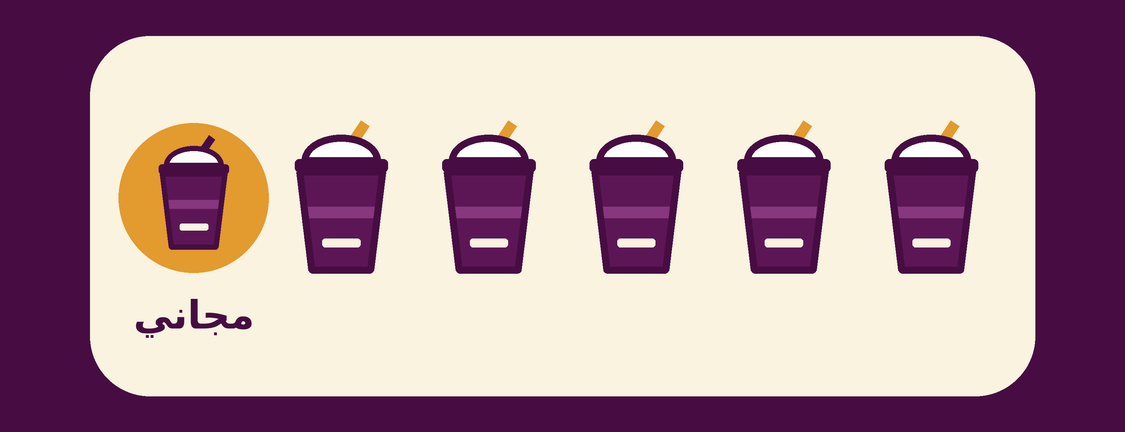
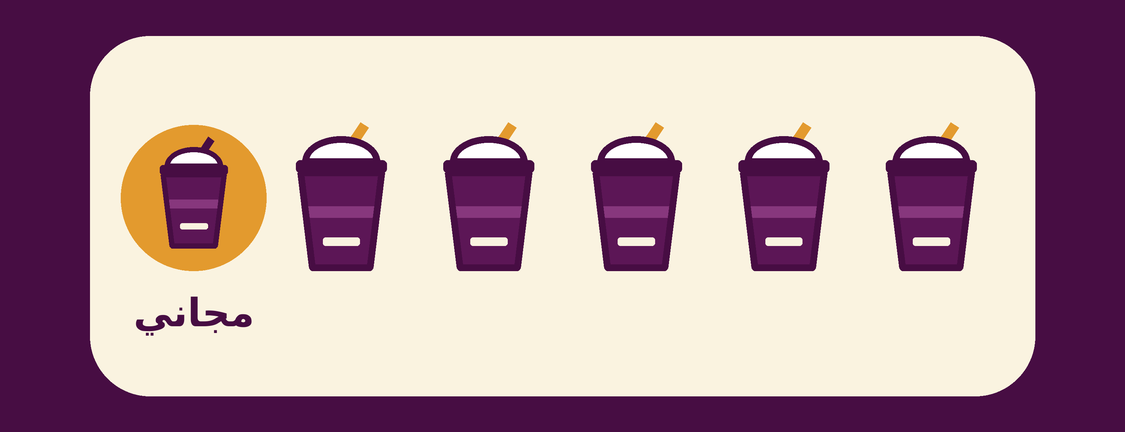
Wallet cards: stamp artwork for every rule from 3 to 10 stamps
Changing the rule (e.g. 6 stamps, 7th free) showed every cup as stamped
because only the 5-stamp artwork existed. Saved cards now refresh when
the rule or the shop location changes.

Claude-Session: https://claude.ai/code/session_01Srws4wZzpzmeXmJyobkACx

diff --git a/tools/wallet_images.py b/tools/wallet_images.py
@@ -23,30 +23,38 @@ def cup(d, cx, base, h, state):
     d.line(body + [body[0]], fill=line, width=lw, joint='curve')
 
 def panel(Wpt, Hpt, stamps, free, need=5, plain=False, pad=(30, 12)):
-    """Cream panel with need cups + one free slot. Sizes in points, drawn 8x then scaled."""
+    """Cream panel with `need` cups + one free slot (two rows when there are many). Points, drawn 8x."""
     S = 8; W, H = Wpt * S, Hpt * S
     im = Image.new('RGB', (W, H), P); d = ImageDraw.Draw(im)
     px, py = pad[0] * S, pad[1] * S
     d.rounded_rectangle((px, py, W - px, H - py), radius=20 * S, fill=C)
-    n = need + 1; inner = W - 2 * px - 20 * S; step = inner / n
-    ch = min(48, (Hpt - 2 * pad[1]) * 0.42) * S          # cup height
-    cy = H / 2 - 6 * S
-    f = ImageFont.truetype(AR, int(13 * S))
+    n = need + 1
+    rows = 1 if n <= 7 else 2
+    cols = -(-n // rows)
+    inner = W - 2 * px - 20 * S; step = inner / cols
+    rowh = (H - 2 * py) / rows
+    ch = min(48 * S if rows == 1 else 30 * S, step * 0.95, rowh * (0.42 if rows == 1 else 0.62))
+    f = ImageFont.truetype(AR, int((13 if rows == 1 else 9) * S))
     for i in range(n):
-        cx = px + 10 * S + step * (n - 1 - i + 0.5)       # first stamp on the right (Arabic order)
+        r_, c_ = divmod(i, cols)
+        cx = px + 10 * S + step * (cols - 1 - c_ + 0.5)          # first stamp on the right (Arabic order)
+        cy = py + rowh * (r_ + 0.5) - (6 * S if rows == 1 else 3 * S)
         if i < need:
             cup(d, cx, cy + ch / 2, ch, 'on' if (plain or free or i < stamps) else 'off')
         else:
-            r = ch * 0.52
-            d.ellipse((cx - r, cy - r, cx + r, cy + r), fill=O if (free or plain) else C, outline=O, width=int(2.5 * S))
-            cup(d, cx, cy + r * 0.66, ch * 0.75, 'free')
-            d.text((cx, cy + r + 14 * S), 'مجاني', font=f, fill=P if (free or plain) else O, anchor='mm', direction='rtl', language='ar')
+            rr = ch * 0.52
+            d.ellipse((cx - rr, cy - rr, cx + rr, cy + rr), fill=O if (free or plain) else C, outline=O, width=int(2.5 * S))
+            cup(d, cx, cy + rr * 0.66, ch * 0.75, 'free')
+            if rows == 1:
+                d.text((cx, cy + rr + 14 * S), 'مجاني', font=f, fill=P if (free or plain) else O, anchor='mm', direction='rtl', language='ar')
     return im
 
 def save_set(prefix, Wpt, Hpt, scales, pad):
-    for k in range(5): out(panel(Wpt, Hpt, k, False, pad=pad), f'{prefix}-{k}', Wpt, Hpt, scales)
-    out(panel(Wpt, Hpt, 5, True, pad=pad), f'{prefix}-free', Wpt, Hpt, scales)
-    out(panel(Wpt, Hpt, 0, False, plain=True, pad=pad), f'{prefix}-plain', Wpt, Hpt, scales)
+    """One image per stamp count for every rule from 3 to 10 stamps, plus a plain one."""
+    for need in range(3, 11):
+        for k in range(need): out(panel(Wpt, Hpt, k, False, need, pad=pad), f'{prefix}-{need}-{k}', Wpt, Hpt, scales)
+        out(panel(Wpt, Hpt, need, True, need, pad=pad), f'{prefix}-{need}-free', Wpt, Hpt, scales)
+    out(panel(Wpt, Hpt, 0, False, 5, plain=True, pad=pad), f'{prefix}-plain', Wpt, Hpt, scales)
 
 def out(im, name, Wpt, Hpt, scales):
     for sc, suf in scales:

diff --git a/api/gwallet_lib.php b/api/gwallet_lib.php
@@ -84,7 +84,7 @@ function gw_class(): array {
 /** The customer's card as a Google loyalty object (same data as the Apple pass). */
 function gw_object(array $c): array {
     $st = loyalty_state($c['phone']);
-    $hero = $st['need'] === 5 ? ($st['free'] > 0 ? 'g-hero-free.png' : 'g-hero-' . $st['stamps'] . '.png') : 'g-hero-plain.png';
+    $hero = $st['need'] >= 3 && $st['need'] <= 10 ? 'g-hero-' . $st['need'] . '-' . ($st['free'] > 0 ? 'free' : $st['stamps']) . '.png' : 'g-hero-plain.png';
     $left = $st['free'] > 0 ? ($st['free'] > 1 ? $st['free'] . ' أكواب مجانية جاهزة' : 'كوب مجاني جاهز لك!')
         : ($st['need'] - $st['stamps']) . ($st['unit'] === 'cup' ? ' أكواب' : ' طلبات') . ' وتاخذ كوب مجاني';
     $site = wallet_site();
@@ -143,6 +143,13 @@ function gw_update(string $card): void {
         $obj = gw_object($c);
         gw_http('PATCH', GW_API . '/loyaltyObject/' . rawurlencode($obj['id']), json_encode($obj, JSON_UNESCAPED_UNICODE | JSON_UNESCAPED_SLASHES));
     } catch (Throwable $e) { error_log('acai gwallet update: ' . $e->getMessage()); }
+}
+
+/** After a design or rule change: every card already in a wallet fetches its new version. */
+function refresh_all_cards(): void {
+    q('UPDATE customers SET pass_updated = ?', [time()]);
+    foreach (q('SELECT DISTINCT serial FROM wallet_regs')->fetchAll() as $r) wallet_push($r['serial']);
+    foreach (q('SELECT card_token FROM customers WHERE gwallet = 1')->fetchAll() as $r) gw_update($r['card_token']);
 }
 
 /** Owner uploads the service-account key and Issuer ID. */

diff --git a/api/api.php b/api/api.php
@@ -384,9 +384,7 @@ case 'save_location':  // owner: shop coordinates for the "you're nearby" lock-s
         set_setting('shop_lat', $m[1]); set_setting('shop_lng', $m[2]);
     }
     set_setting('nearby_text', clean((string)($in['text'] ?? ''), 120));
-    // Refresh every card already in a wallet so it picks up the location
-    q('UPDATE customers SET pass_updated = ?', [time()]);
-    foreach (q('SELECT DISTINCT serial FROM wallet_regs')->fetchAll() as $r) wallet_push($r['serial']);
+    refresh_all_cards();   // cards already in wallets pick up the location
     out(['ok' => true]);
 
 case 'save_loyalty':
@@ -395,6 +393,8 @@ case 'save_loyalty':
     set_setting('loyalty_on', !empty($in['on']) ? '1' : '0');
     set_setting('loyalty_need', (string)$need);
     set_setting('loyalty_unit', ($in['unit'] ?? '') === 'order' ? 'order' : 'cup');
+    require_once __DIR__ . '/gwallet_lib.php';
+    refresh_all_cards();   // cards already in wallets show the new rule
     out(['ok' => true]);
 
 case 'save_commissions':

diff --git a/api/wallet_lib.php b/api/wallet_lib.php
@@ -131,7 +131,7 @@ function wallet_build(array $c): string {
     if (!wallet_ready()) fail('wallet_off', 503);
     $st = loyalty_state($c['phone']);
     $img = dirname(__DIR__) . '/assets/wallet';
-    $strip = $st['need'] === 5 ? ($st['free'] > 0 ? 'strip-free' : 'strip-' . $st['stamps']) : 'strip-plain';
+    $strip = $st['need'] >= 3 && $st['need'] <= 10 ? 'strip-' . $st['need'] . '-' . ($st['free'] > 0 ? 'free' : $st['stamps']) : 'strip-plain';
     $files = ['pass.json' => json_encode(wallet_pass_json($c), JSON_UNESCAPED_UNICODE | JSON_UNESCAPED_SLASHES)];
     foreach (['icon.png', 'icon@2x.png', 'icon@3x.png', 'logo.png', 'logo@2x.png', 'logo@3x.png'] as $f) $files[$f] = file_get_contents("$img/$f");
     foreach (['' => '', '@2x' => '@2x', '@3x' => '@3x'] as $s) $files["strip$s.png"] = file_get_contents("$img/$strip$s.png");
